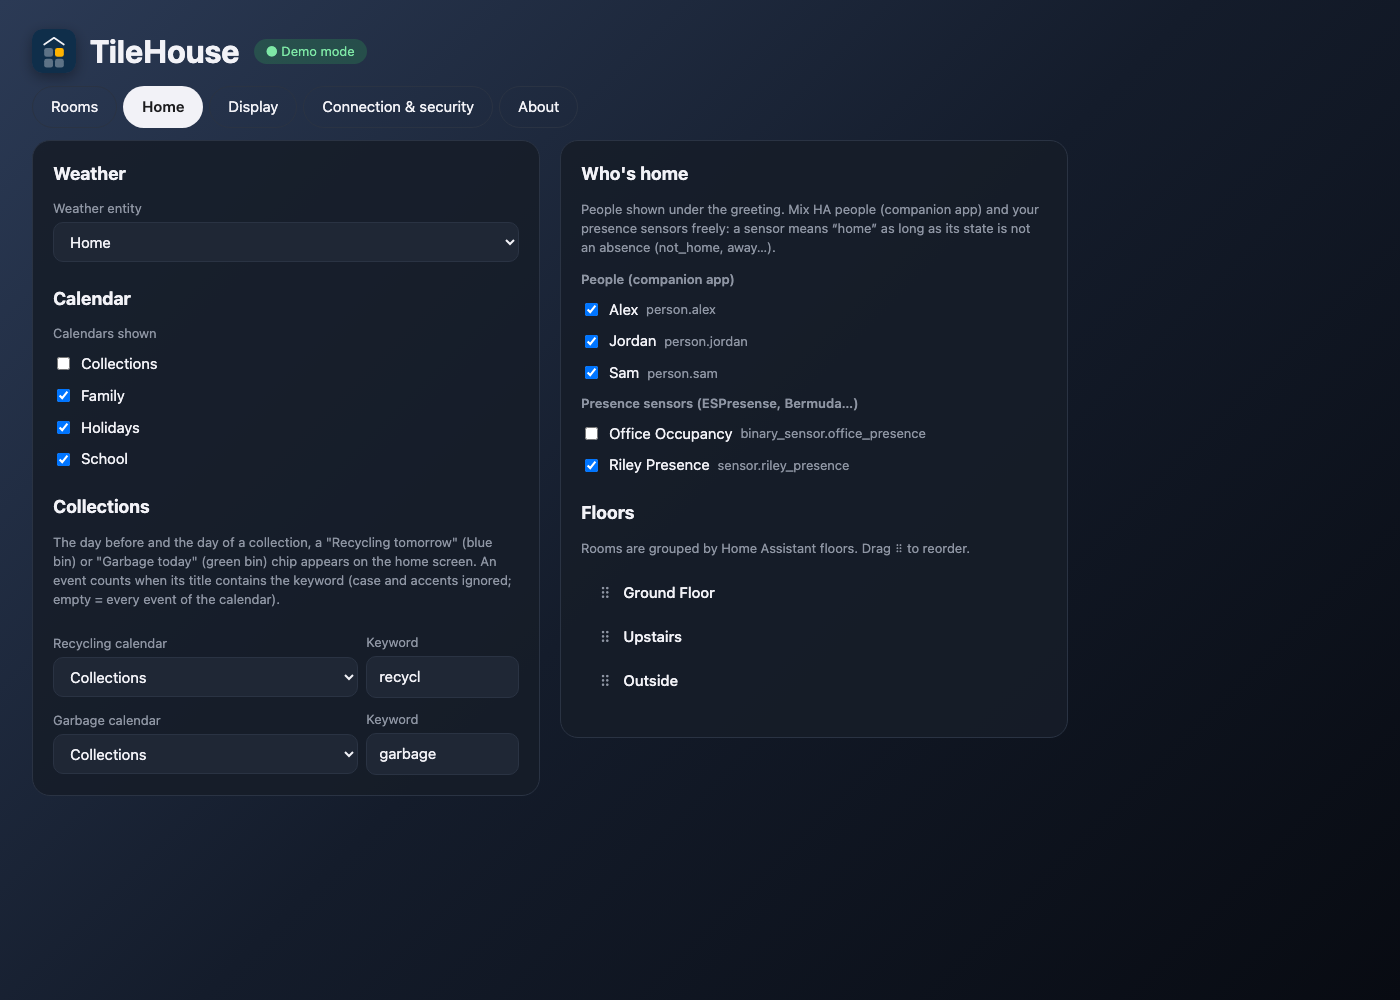
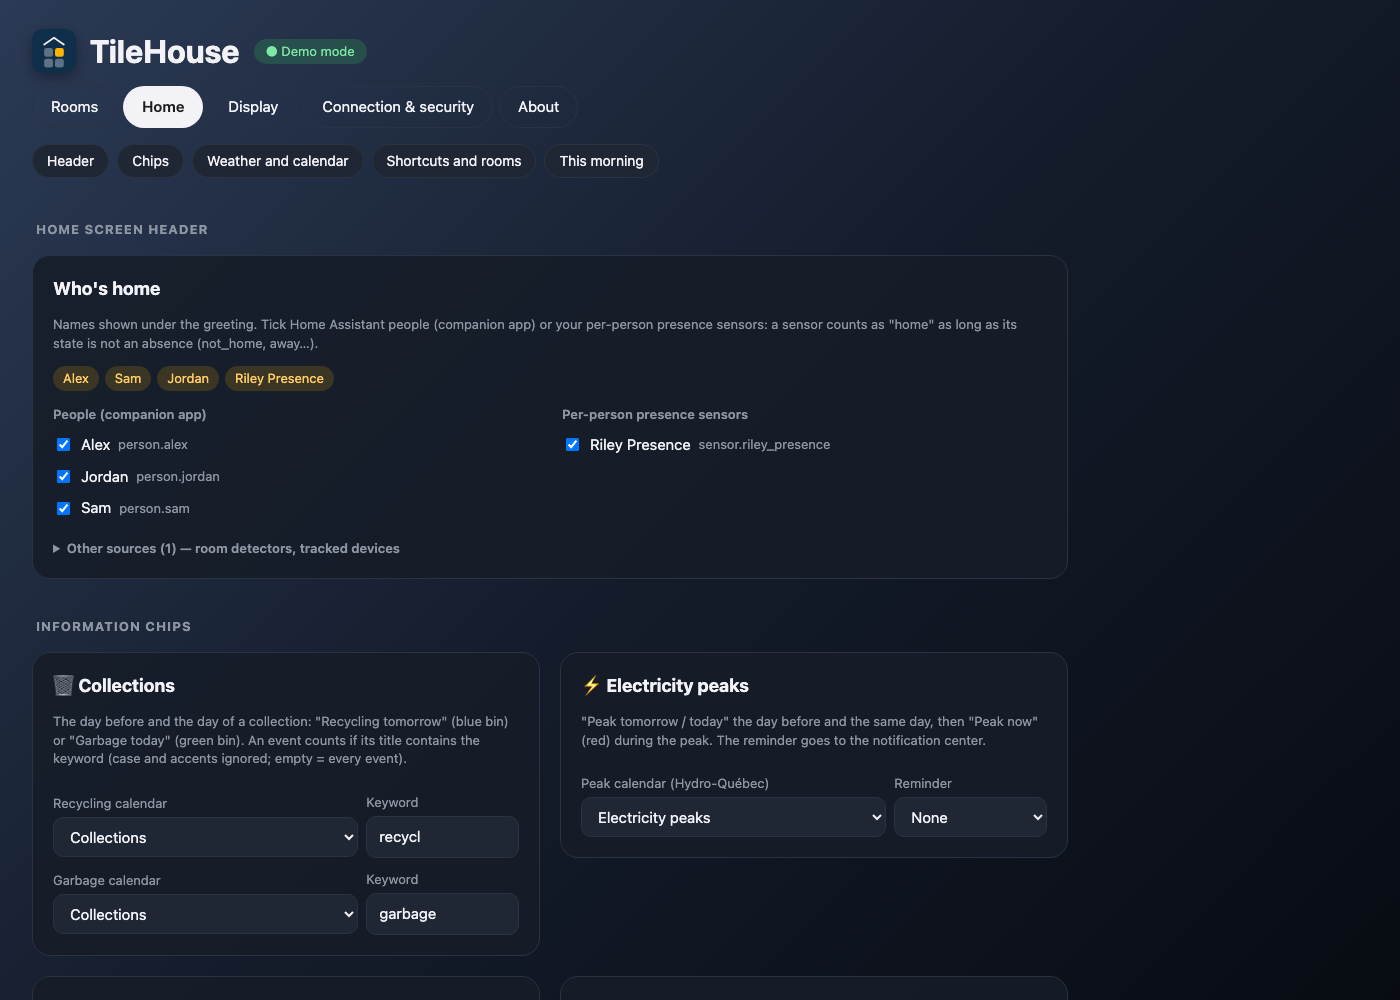
Web page: Home tab organised like the home screen, lighter presence list
Quick links, then grouped cards (header, chips, weather and calendar,
shortcuts and rooms, This morning), one topic per card. Who's home shows
the selection on top and only companion-app people and per-person
presence sensors; room detectors and tracked devices are folded under
"Other sources" with a search field.

diff --git a/app/src/main/assets/config.html b/app/src/main/assets/config.html
@@ -24,6 +24,11 @@ header .badge{align-self:center}
 .side{display:grid;gap:20px;align-content:start}
 @media(max-width:900px){main,main.grid2{grid-template-columns:1fr;padding:8px 16px 40px}header{padding:20px 16px 8px}.tabs{padding:4px 16px 0}}
 .card{background:var(--card);border:1px solid var(--line);border-radius:18px;padding:20px}
+.group{grid-column:1/-1;margin:18px 4px -4px;font-size:13px;letter-spacing:.08em;text-transform:uppercase;color:var(--mute,#8e95a3);font-weight:700}
+.jump{display:flex;flex-wrap:wrap;gap:8px;padding:4px 0}
+.jump button{border-radius:20px;padding:6px 14px;font-size:14px}
+.presel{display:flex;flex-wrap:wrap;gap:6px;margin:6px 0 4px}
+.presel span{background:rgba(255,179,0,.16);color:#ffcc66;border-radius:14px;padding:3px 10px;font-size:13px}
 label.f{display:block;color:var(--mute);font-size:13px;margin:12px 0 4px}
 input,select{width:100%;background:var(--card2);border:1px solid var(--line);color:var(--text);border-radius:10px;padding:9px 12px;font:inherit}
 input:focus,select:focus{outline:2px solid var(--blue);border-color:transparent}
@@ -138,15 +143,21 @@ table.kv td:last-child{color:var(--mute);text-align:right;word-break:break-all}
 
 <!-- ============ Accueil ============ -->
 <main class="panel grid2" data-panel="home" hidden>
+  <nav class="jump" style="grid-column:1/-1">
+    <button data-jump="g-top">En-tête</button><button data-jump="g-chips">Pastilles</button><button data-jump="g-cards">Météo et agenda</button><button data-jump="g-buttons">Raccourcis et pièces</button><button data-jump="g-morning">Ce matin</button>
+  </nav>
+
+  <h3 class="group" id="g-top">En-tête de l'accueil</h3>
+  <section class="card" style="grid-column:1/-1">
+    <h2>Qui est à la maison</h2>
+    <p class="muted">Noms affichés sous la salutation. Cochez les personnes de Home Assistant (app compagnon) ou vos capteurs de présence par personne : un capteur compte « à la maison » tant que son état n'est pas une absence (not_home, away…).</p>
+    <div id="personList" class="muted">Connexion requise…</div>
+  </section>
+
+  <h3 class="group" id="g-chips">Pastilles d'information</h3>
   <section class="card">
-    <h2>Météo</h2>
-    <label class="f" for="weather">Entité météo</label>
-    <select id="weather"></select>
-    <h2 style="margin-top:24px">Agenda</h2>
-    <label class="f">Calendriers affichés</label>
-    <div id="calList" class="muted">Connexion requise…</div>
-    <h2 style="margin-top:24px">Collectes</h2>
-    <p class="muted">La veille et le jour d'une collecte, une pastille « Recyclage demain » (bac bleu) ou « Ordures aujourd'hui » (bac vert) apparaît sur l'accueil. Un événement compte si son titre contient le mot clé (majuscules et accents ignorés ; vide = tous les événements du calendrier).</p>
+    <h2>🗑 Collectes</h2>
+    <p class="muted">La veille et le jour d'une collecte : « Recyclage demain » (bac bleu) ou « Ordures aujourd'hui » (bac vert). Un événement compte si son titre contient le mot clé (majuscules et accents ignorés ; vide = tous les événements).</p>
     <div class="row">
       <div style="flex:2"><label class="f" for="recycleCal">Calendrier du recyclage</label><select id="recycleCal"></select></div>
       <div style="flex:1"><label class="f" for="recycleKw">Mot clé</label><input id="recycleKw" placeholder="recycl"></div>
@@ -157,37 +168,54 @@ table.kv td:last-child{color:var(--mute);text-align:right;word-break:break-all}
     </div>
   </section>
   <section class="card">
-    <h2>Qui est à la maison</h2>
-    <p class="muted">Personnes affichées sous la salutation. Combinez au choix les personnes de HA (app compagnon) et vos capteurs de présence : un capteur indique « à la maison » tant que son état n'est pas une absence (not_home, away…).</p>
-    <div id="personList" class="muted">Connexion requise…</div>
-    <h2 style="margin-top:24px">Paliers</h2>
-    <p class="muted">Les pièces sont regroupées selon les paliers (étages) de Home Assistant. Glissez ⠿ pour changer l'ordre.</p>
-    <ul class="rooms" id="floorList"></ul>
+    <h2>⚡ Pointes d'électricité</h2>
+    <p class="muted">« Pointe demain / aujourd'hui » la veille et le jour même, puis « Pointe en cours » (rouge) pendant la pointe. Le rappel arrive dans le centre de notifications.</p>
+    <div class="row">
+      <div style="flex:2"><label class="f" for="peakCal">Calendrier des pointes (Hydro-Québec)</label><select id="peakCal"></select></div>
+      <div style="flex:1"><label class="f" for="peakReminder">Rappel</label>
+        <select id="peakReminder"><option value="0">Aucun</option><option value="30">30 min avant</option><option value="60">1 h avant</option><option value="120">2 h avant</option><option value="180">3 h avant</option></select></div>
+    </div>
   </section>
   <section class="card">
-    <h2>Électricité et météo</h2>
-    <label class="f" for="peakCal">Calendrier des pointes (Hydro-Québec)</label>
-    <select id="peakCal"></select>
-    <label class="f" for="peakReminder">Rappel avant une pointe</label>
-    <select id="peakReminder"><option value="0">Aucun</option><option value="30">30 min avant</option><option value="60">1 h avant</option><option value="120">2 h avant</option><option value="180">3 h avant</option></select>
-    <p class="muted">Pastille « Pointe demain / aujourd'hui » la veille et le jour même, puis « Pointe en cours » (rouge) pendant la pointe. Le rappel arrive dans le centre de notifications.</p>
-    <h2 style="margin-top:24px">Alertes météo</h2>
+    <h2>⚠ Alertes météo</h2>
     <p class="muted">Capteurs qui comptent les alertes en vigueur (ex. Environnement Canada : alertes, veilles, avis). Une pastille apparaît quand l'un d'eux est au-dessus de 0 ; touchez-la pour le détail.</p>
     <div id="alertList" class="muted">Connexion requise…</div>
   </section>
   <section class="card">
-    <h2>Raccourcis</h2>
-    <p class="muted">Scripts, scènes et boutons affichés en gros boutons sur l'accueil, dans l'ordre où vous les cochez.</p>
-    <input id="scQ" placeholder="Rechercher…">
-    <ul class="ents pick" id="scList" style="max-height:260px"></ul>
-    <h2 style="margin-top:24px">Pastilles personnalisées</h2>
-    <p class="muted">Une pastille apparaît sur l'accueil quand l'entité est dans un des états indiqués (séparés par des virgules). Ex. : laveuse « À vider ».</p>
+    <h2>🏷 Pastilles personnalisées</h2>
+    <p class="muted">Une pastille apparaît quand l'entité est dans un des états indiqués (séparés par des virgules). Ex. : laveuse « À vider ».</p>
     <div id="chipRules"></div>
     <button id="addChip">+ Ajouter une pastille</button>
   </section>
+
+  <h3 class="group" id="g-cards">Cartes météo et agenda</h3>
+  <section class="card">
+    <h2>🌤 Météo</h2>
+    <label class="f" for="weather">Entité météo</label>
+    <select id="weather"></select>
+  </section>
+  <section class="card">
+    <h2>📅 Agenda</h2>
+    <label class="f">Calendriers affichés</label>
+    <div id="calList" class="muted">Connexion requise…</div>
+  </section>
+
+  <h3 class="group" id="g-buttons">Raccourcis et pièces</h3>
+  <section class="card">
+    <h2>▶ Raccourcis</h2>
+    <p class="muted">Scripts, scènes et boutons affichés en gros boutons sous les cartes, dans l'ordre où vous les cochez.</p>
+    <input id="scQ" placeholder="Rechercher…">
+    <ul class="ents pick" id="scList" style="max-height:260px"></ul>
+  </section>
+  <section class="card">
+    <h2>🏠 Paliers</h2>
+    <p class="muted">Les pièces sont regroupées selon les paliers (étages) de Home Assistant. Glissez ⠿ pour changer l'ordre.</p>
+    <ul class="rooms" id="floorList"></ul>
+  </section>
+
+  <h3 class="group" id="g-morning">Ce matin (icône ☀)</h3>
   <section class="card" style="grid-column:1/-1">
-    <h2>Ce matin</h2>
-    <p class="muted">Pendant la plage horaire, une icône ☀ apparaît en haut de la tablette, à côté de la cloche (avec un point bleu tant que le contenu n'a pas été lu). Touchez-la pour lire les sources de votre choix : des flux de nouvelles (lien RSS ou Atom, lu directement par la tablette, avec images) ou un texte d'une entité Home Assistant (Markdown accepté).</p>
+    <p class="muted" style="margin-top:0">Pendant la plage horaire, une icône ☀ apparaît en haut de la tablette, à côté de la cloche (avec un point bleu tant que le contenu n'a pas été lu). Touchez-la pour lire les sources de votre choix : des flux de nouvelles (lien RSS ou Atom, lu directement par la tablette, avec images) ou un texte d'une entité Home Assistant (Markdown accepté).</p>
     <div class="row">
       <div style="flex:1"><label class="f" for="mStart">De</label><input type="time" id="mStart"></div>
       <div style="flex:1"><label class="f" for="mEnd">À</label><input type="time" id="mEnd"></div>
@@ -790,25 +818,49 @@ function renderPresence(ex, selected) {
   if (!persons && !others) { b.textContent = selected.length ? selected.join(", ") : t("Connexion requise…"); return; }
   b.replaceChildren();
   b.className = "";
-  const save = () => saveSettings({persons: [...b.querySelectorAll("input")].filter(x => x.checked).map(x => x.dataset.id)});
-  const group = (title, list, collapsed) => {
-    if (!list || !list.length) return;
-    const box = collapsed ? el("details") : el("div");
-    box.append(el(collapsed ? "summary" : "div", {class: "muted", style: "margin:10px 0 2px;font-weight:600"}, title));
-    if (collapsed && list.some(it => selected.includes(it.id))) box.open = true;
-    for (const it of list) {
-      const cb = el("input", {type: "checkbox", checked: selected.includes(it.id), onchange: save});
-      cb.dataset.id = it.id;
-      box.append(el("label", {class: "check"}, cb, " " + it.name, el("span", {class: "muted", textContent: "  " + it.id})));
-    }
-    b.append(box);
+  const all = [...(persons || []), ...(others || [])];
+  const nameOf = id => (all.find(x => x.id === id) || {name: id}).name;
+  const save = () => {
+    const sel = [...new Set([...b.querySelectorAll("input[type=checkbox]")].filter(x => x.checked).map(x => x.dataset.id))];
+    saveSettings({persons: sel});
+    renderPresence(ex, sel);
   };
-  const sensors = (others || []).filter(it => !it.id.startsWith("device_tracker."));
-  const trackers = (others || []).filter(it => it.id.startsWith("device_tracker."));
-  group(t("Personnes (app compagnon)"), persons, false);
-  group(t("Capteurs de présence (ESPresense, Bermuda…)"), sensors, false);
-  group(t("Appareils suivis"), trackers, true);
+  // Ce qui est coché, en un coup d'œil
+  b.append(el("div", {class: "presel"}, ...(selected.length ? selected.map(id => el("span", {textContent: nameOf(id)}))
+    : [el("em", {class: "muted", textContent: t("Personne n'est sélectionné.")})])));
+  const item = it => {
+    const cb = el("input", {type: "checkbox", checked: selected.includes(it.id), onchange: save});
+    cb.dataset.id = it.id;
+    return el("label", {class: "check"}, cb, " " + it.name, el("span", {class: "muted", textContent: "  " + it.id}));
+  };
+  const cols = el("div", {class: "row", style: "align-items:flex-start;gap:24px"});
+  const col = (title, list) => {
+    if (!list.length) return;
+    cols.append(el("div", {style: "flex:1;min-width:240px"}, el("div", {class: "muted", style: "margin:10px 0 2px;font-weight:600"}, title), ...list.map(item)));
+  };
+  // Proposés : personnes HA et capteurs de présence par personne (sensor.*)
+  const sensors = (others || []).filter(it => it.id.startsWith("sensor."));
+  col(t("Personnes (app compagnon)"), persons || []);
+  col(t("Capteurs de présence par personne"), sensors);
+  b.append(cols);
+  // Le reste (détecteurs de pièce, appareils suivis) : replié, avec recherche
+  const rest = (others || []).filter(it => !it.id.startsWith("sensor."));
+  if (rest.length) {
+    const box = el("details", {style: "margin-top:10px"});
+    box.append(el("summary", {class: "muted", style: "font-weight:600;cursor:pointer"}, t("Autres sources") + " (" + rest.length + ") — " + t("détecteurs de pièce, appareils suivis")));
+    const q = el("input", {placeholder: t("Rechercher…"), style: "margin:8px 0"});
+    const list = el("div");
+    const draw = () => {
+      const f = q.value.trim().toLowerCase();
+      list.replaceChildren(...rest.filter(it => !f || (it.name + " " + it.id).toLowerCase().includes(f)).map(item));
+    };
+    q.oninput = draw; draw();
+    box.append(q, list);
+    if (rest.some(it => selected.includes(it.id))) box.open = true;
+    b.append(box);
+  }
 }
+for (const j of document.querySelectorAll("[data-jump]")) j.onclick = () => $(j.dataset.jump).scrollIntoView({behavior: "smooth", block: "start"});
 
 function renderHome() {
   const h = S.home;

diff --git a/app/src/main/java/com/homepanel/kiosk/I18n.kt b/app/src/main/java/com/homepanel/kiosk/I18n.kt
@@ -75,6 +75,32 @@ object I18n {
         "À" to "To",
         "Sources" to "Sources",
         "+ Ajouter une source" to "+ Add a source",
+        "En-tête" to "Header",
+        "Pastilles" to "Chips",
+        "Météo et agenda" to "Weather and calendar",
+        "Raccourcis et pièces" to "Shortcuts and rooms",
+        "En-tête de l'accueil" to "Home screen header",
+        "Pastilles d'information" to "Information chips",
+        "Cartes météo et agenda" to "Weather and calendar cards",
+        "Ce matin (icône ☀)" to "This morning (☀ icon)",
+        "Noms affichés sous la salutation. Cochez les personnes de Home Assistant (app compagnon) ou vos capteurs de présence par personne : un capteur compte « à la maison » tant que son état n'est pas une absence (not_home, away…)." to "Names shown under the greeting. Tick Home Assistant people (companion app) or your per-person presence sensors: a sensor counts as \"home\" as long as its state is not an absence (not_home, away…).",
+        "🗑 Collectes" to "🗑 Collections",
+        "⚡ Pointes d'électricité" to "⚡ Electricity peaks",
+        "⚠ Alertes météo" to "⚠ Weather alerts",
+        "🏷 Pastilles personnalisées" to "🏷 Custom chips",
+        "🌤 Météo" to "🌤 Weather",
+        "📅 Agenda" to "📅 Calendar",
+        "▶ Raccourcis" to "▶ Shortcuts",
+        "🏠 Paliers" to "🏠 Floors",
+        "La veille et le jour d'une collecte : « Recyclage demain » (bac bleu) ou « Ordures aujourd'hui » (bac vert). Un événement compte si son titre contient le mot clé (majuscules et accents ignorés ; vide = tous les événements)." to "The day before and the day of a collection: \"Recycling tomorrow\" (blue bin) or \"Garbage today\" (green bin). An event counts if its title contains the keyword (case and accents ignored; empty = every event).",
+        "« Pointe demain / aujourd'hui » la veille et le jour même, puis « Pointe en cours » (rouge) pendant la pointe. Le rappel arrive dans le centre de notifications." to "\"Peak tomorrow / today\" the day before and the same day, then \"Peak now\" (red) during the peak. The reminder goes to the notification center.",
+        "Rappel" to "Reminder",
+        "Une pastille apparaît quand l'entité est dans un des états indiqués (séparés par des virgules). Ex. : laveuse « À vider »." to "A chip appears when the entity is in one of the given states (comma-separated). E.g. washer \"To empty\".",
+        "Scripts, scènes et boutons affichés en gros boutons sous les cartes, dans l'ordre où vous les cochez." to "Scripts, scenes and buttons shown as large buttons under the cards, in the order you tick them.",
+        "Personne n'est sélectionné." to "Nobody is selected.",
+        "Capteurs de présence par personne" to "Per-person presence sensors",
+        "Autres sources" to "Other sources",
+        "détecteurs de pièce, appareils suivis" to "room detectors, tracked devices",
         "+ Ajouter un flux de nouvelles" to "+ Add a news feed",
         "+ Ajouter un texte (entité)" to "+ Add a text (entity)",
         "Lecture du flux…" to "Reading the feed…",

diff --git a/README.md b/README.md
@@ -166,7 +166,7 @@ Everything can also be done directly on the tablet, from the ⋮ menu in the top
   (*Home → Collections*) pick a calendar and a keyword for each: an event counts when its title contains the keyword
   (case and accents ignored; empty = every event of that calendar). Both can use the same calendar.
 - **Electricity peaks** (e.g. Hydro-Québec): "Peak tomorrow 06:00–09:00" the day before and the same day, then a red "Peak now ·
-  ends 09:00" during the peak, from the calendar you pick (*Home → Electricity and weather*). An optional reminder (30 min to 3 h
+  ends 09:00" during the peak, from the calendar you pick (*Home → Electricity peaks*). An optional reminder (30 min to 3 h
   before) goes to the notification center.
 - **Weather alerts**: pick the sensors that count the alerts in effect (Environment Canada: warnings, watches, advisories); a chip
   appears when one is above 0 (red for a warning), tap it for details.
@@ -448,8 +448,11 @@ The tablet runs a small web server (port **8080**). Open the address shown in th
 - **Rooms**: add, rename, delete and reorder rooms (drag ⠿ or ▲▼). For the selected room, search all your Home Assistant devices
   by name, area or type, add them with one click, reorder them, rename them for the tablet, and show hidden/diagnostic entities if needed.
   **Import HA areas** creates rooms from your areas automatically.
-- **Home**: weather entity, calendars, collection reminders (calendar + keyword), people and presence sensors, the **order of floors**,
-  electricity peaks, weather alerts, shortcuts, custom chips and the "This morning" sources.
+- **Home**: organised like the home screen, top to bottom, with quick links at the top: **Header** (who's home), **Chips**
+  (collections, electricity peaks, weather alerts, custom chips), **Weather and calendar** cards, **Shortcuts and rooms** (order
+  of floors) and **This morning** (time range and sources). For who's home, the people from the companion app and the per-person
+  presence sensors are listed side by side with the current selection on top; room detectors and tracked devices are folded
+  under *Other sources*, with a search field.
 - **Display**: language, theme, wallpaper, dashboard options, sleep and screen saver (including the Immich photo frame), sounds and
   quiet hours, notifications, and camera alerts.
 - **Connection & security**: Home Assistant address and token, demo mode, PIN, backup and restore, and MQTT.

diff --git a/CHANGELOG.md b/CHANGELOG.md
@@ -13,6 +13,7 @@ TileHouse uses calendar versioning: `YEAR.MONTH.N`.
   - Texts: an entity's state or attribute (Markdown), shown as cards side by side.
 - Notification action buttons: up to 3 buttons (`actions`: title, service, entity_id, data) that call a Home Assistant service and mark the notification read.
 - Demo mode shows examples of every new home-screen feature (peak, weather statement, collections, washer chip, This morning, shortcuts); help page updated with new screenshots.
+- Web page, Home tab reorganised like the home screen: quick links, then Header (who's home), Chips (collections, electricity peaks, weather alerts, custom chips), Weather and calendar, Shortcuts and rooms, This morning — one topic per card. Who's home lists only the companion-app people and per-person presence sensors, with the current selection on top; room detectors and tracked devices are folded under "Other sources" with a search field.
 - Fix: changing the tablet's language no longer logs "Invalid option" errors in Home Assistant for the Theme, Wallpaper and Screen saver selects. Each language now has its own MQTT state topic for these lists, and the value is published before the list, so Home Assistant never reads a value in the other language.
 
 ## 2026.11.5
